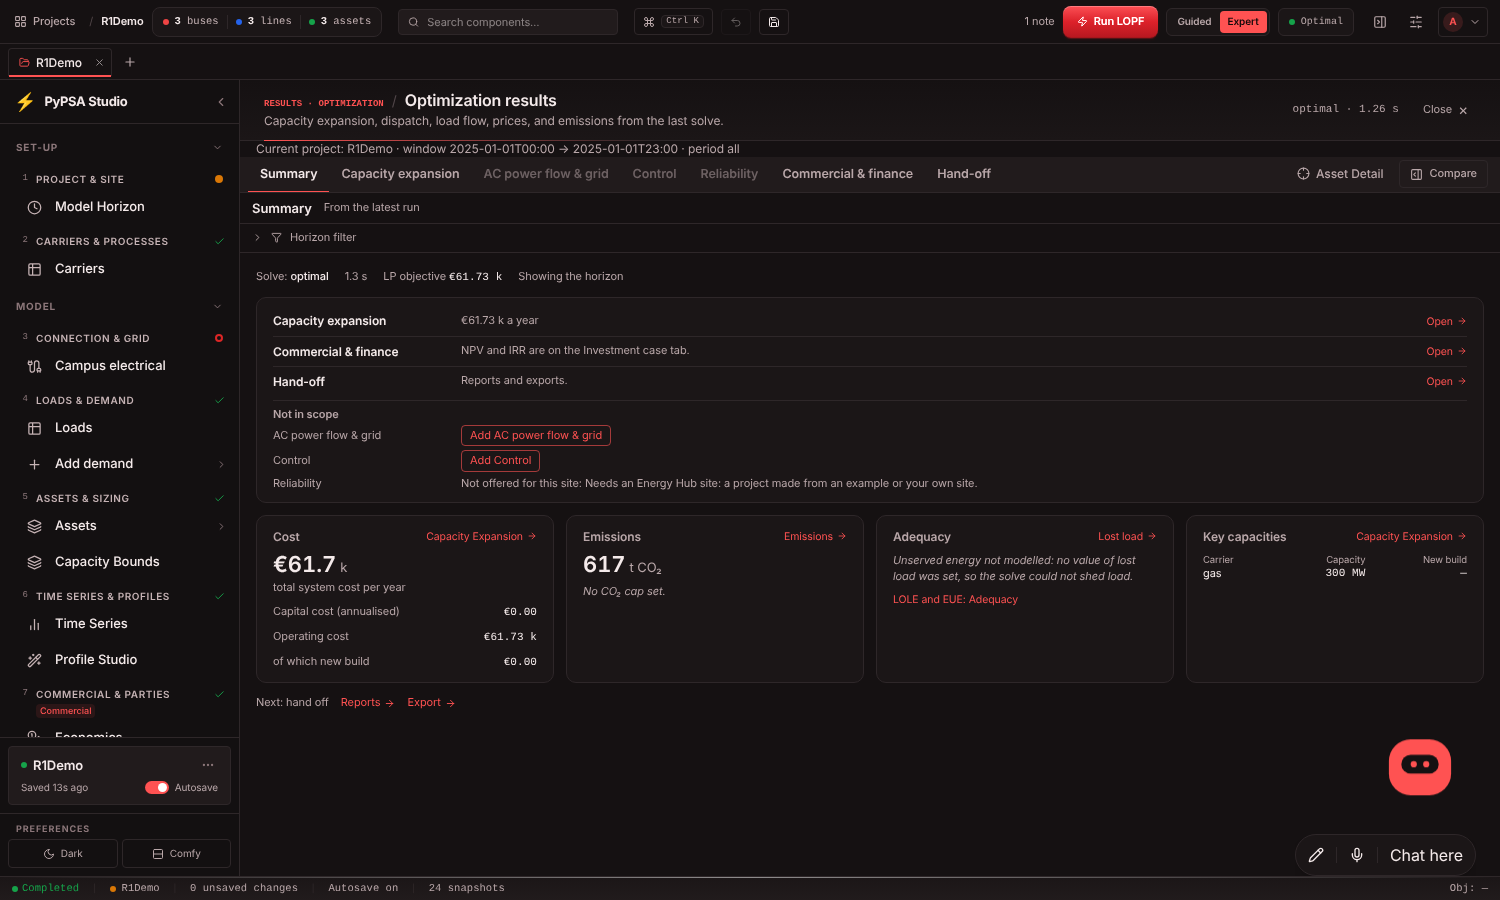
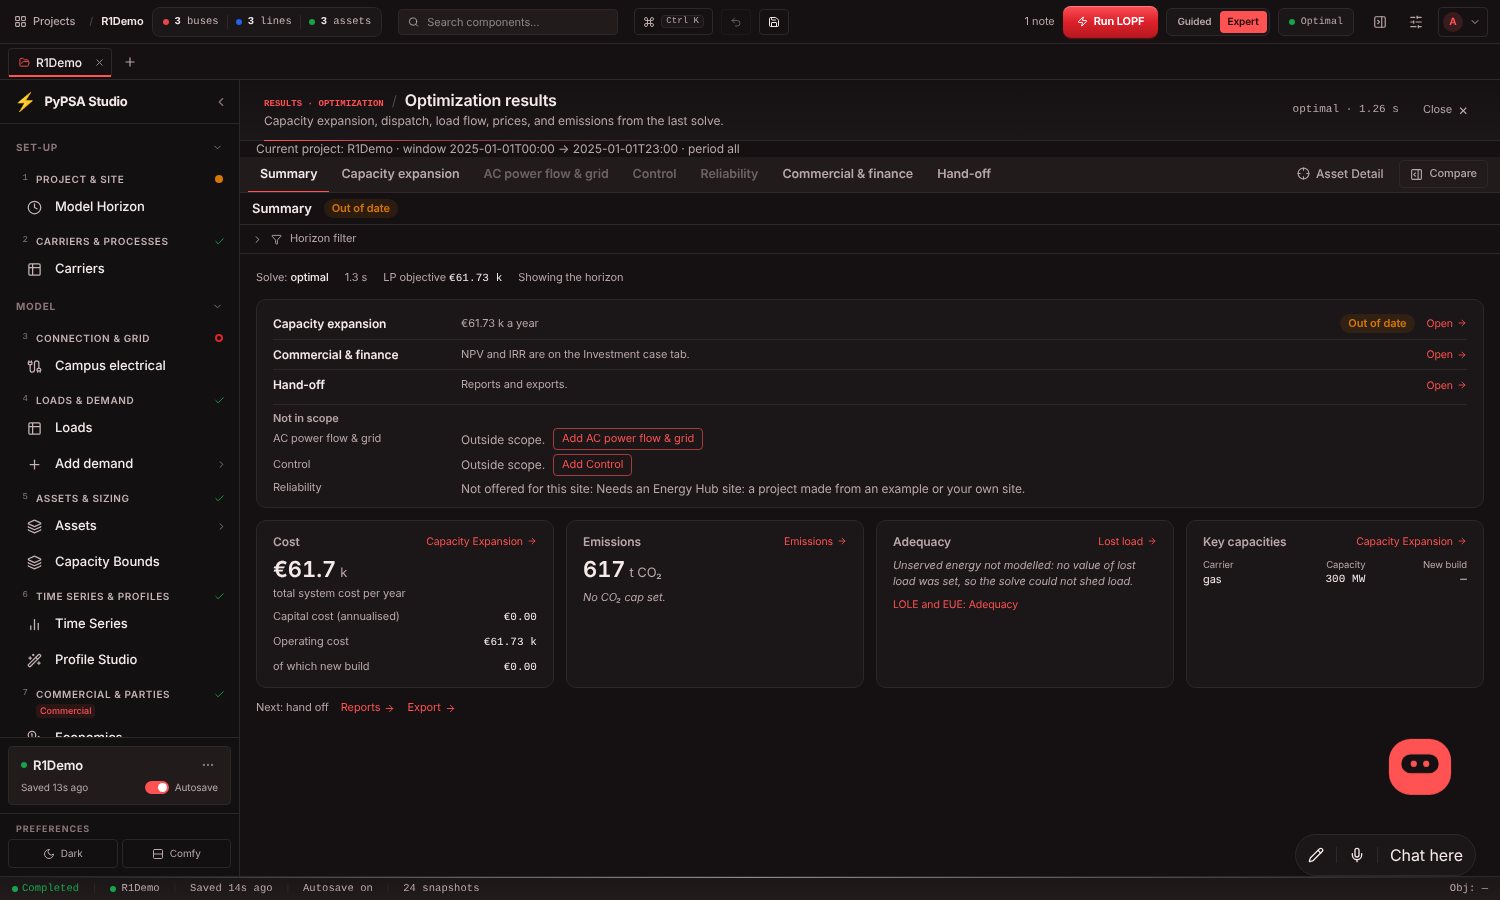
Results groups: failure target, empty-note links, ScopeGate in Summary rows
Claude-Session: https://claude.ai/code/session_01WsvjbS4viKhBmiZq7EK6JD

diff --git a/pypsa-gui/frontend/src/pages/Results.tsx b/pypsa-gui/frontend/src/pages/Results.tsx
@@ -182,6 +182,7 @@ export default function Results() {
   const setCompareRailOpen  = useUIStore(s => s.setCompareRailOpen)
   const setCompareRailWidth = useUIStore(s => s.setCompareRailWidth)
   const resultsTabRequest = useUIStore(s => s.resultsTabRequest)
+  const setSlidePanel = useUIStore(s => s.setSlidePanel)
   const clearResultsTabRequest = useUIStore(s => s.clearResultsTabRequest)
   const discussedRun = useUIStore(s => s.discussedRun)
   const clearDiscussedRun = useUIStore(s => s.clearDiscussedRun)
@@ -946,13 +947,20 @@ export default function Results() {
                       <div className="p-4"><ScopeGate card={g as ScopeCardId} testId="results-outside-scope">{null}</ScopeGate></div>
                     ) : (
                       <p data-testid="results-gempty" className="p-4 text-[12px] text-muted">
-                        No {label} results here yet.
+                        {g === 'control'
+                          ? 'Control results come from the island study. '
+                          : 'Reports and exports are made from Reports. '}
+                        <button type="button" data-testid="results-gempty-open"
+                          onClick={() => setSlidePanel(g === 'control' ? 'campusElectrical' : 'reports')}
+                          className="text-accent hover:underline">
+                          {g === 'control' ? 'Run the island study in Campus electrical' : 'Open Reports'} &gt;
+                        </button>
                       </p>
                     )}
                     {outside && emptyGroup == null && hasEarlierResults && (
                       <div data-testid="results-earlier" className="border-t border-border">
                         <p className="px-4 py-2 text-[11px] text-muted">
-                          From the latest run, before {label} was switched off. Read-only.
+                          From the latest run. Read-only while {label} is outside the scope.
                         </p>
                         <div inert className="opacity-50 pointer-events-none select-none">
                           {renderBody(t)}

diff --git a/pypsa-gui/frontend/src/pages/Results.cardGroups.test.tsx b/pypsa-gui/frontend/src/pages/Results.cardGroups.test.tsx
@@ -105,7 +105,7 @@ describe('the group strip', () => {
     fireEvent.click(screen.getByTestId('results-group-grid'))
     expect(screen.getByTestId('results-outside-scope')).toBeTruthy()
     const earlier = screen.getByTestId('results-earlier')
-    expect(earlier.textContent).toContain('before AC power flow & grid was switched off')
+    expect(earlier.textContent).toContain('Read-only while AC power flow & grid is outside the scope')
     const body = within(earlier).getByTestId('loadflow-stub').closest('[inert]')
     expect(body).toBeTruthy()
     expect(body!.className).toContain('opacity-50')
@@ -115,7 +115,10 @@ describe('the group strip', () => {
     getFlowScope.mockResolvedValue(registry(['capacity', 'control', 'reliability']))
     await renderResults()
     fireEvent.click(screen.getByTestId('results-group-control'))
-    expect(screen.getByTestId('results-gempty')).toBeTruthy()
+    expect(screen.getByTestId('results-gempty').textContent).toContain('Campus electrical >')
+    fireEvent.click(screen.getByTestId('results-gempty-open'))
+    expect(useUIStore.getState().activeSlidePanel).toBe('campusElectrical')
+    fireEvent.click(screen.getByTestId('results-group-control'))
     fireEvent.click(screen.getByTestId('results-group-capacity'))
     const tabs = Array.from(document.querySelectorAll('[data-testid^="results-cardtab-"]'))
       .map(el => el.textContent)
@@ -144,6 +147,8 @@ describe('the group header', () => {
     fireEvent.click(screen.getByTestId('results-group-capacity'))
     expect(screen.getByTestId('results-ghead-failed').textContent)
       .toContain('Did not complete: The model is infeasible. Check the demand.')
+    fireEvent.click(screen.getByTestId('results-ghead-failed-open'))
+    expect(useUIStore.getState().activeSection).toBe('scenarios')
   })
 })
 

diff --git a/pypsa-gui/frontend/src/pages/results/GroupHeader.tsx b/pypsa-gui/frontend/src/pages/results/GroupHeader.tsx
@@ -5,6 +5,8 @@
 import type { ReactNode } from 'react'
 import { StatePill, type NonValueState } from '../../components/ResultState'
 import type { SimulationStatus } from '../../api/types'
+import { useUIStore } from '../../store/uiStore'
+import { openSectionInExpert, openSectionInGuided } from '../../layout/flowNavigation'
 import type { CardGroup } from './groups'
 
 /** The group's freshness: from the solve's dispatch freshness (the rail's
@@ -29,6 +31,7 @@ export default function GroupHeader({ group, status, outsideScope, children }: {
   children?: ReactNode
 }) {
   const fresh = freshnessOf(status)
+  const uiMode = useUIStore(st => st.uiMode)
   const failed = !!status && !status.running && !!status.failure
   return (
     <div data-testid="results-ghead" data-group={group.id}
@@ -43,6 +46,10 @@ export default function GroupHeader({ group, status, outsideScope, children }: {
       {failed && !outsideScope && (
         <span data-testid="results-ghead-failed" className="text-[11px] text-danger">
           Did not complete: {status!.failure!.title}{status!.failure!.hint ? `. ${status!.failure!.hint}` : ''}
+          {' '}
+          <button type="button" data-testid="results-ghead-failed-open"
+            onClick={() => (uiMode === 'guided' ? openSectionInGuided : openSectionInExpert)('scenarios')}
+            className="text-accent hover:underline">Open Scenarios & optimisation &gt;</button>
         </span>
       )}
       <span className="flex-1" />

diff --git a/pypsa-gui/frontend/src/pages/results/SummaryTab.tsx b/pypsa-gui/frontend/src/pages/results/SummaryTab.tsx
@@ -21,7 +21,7 @@ import type { AdequacyReportPayload } from './adequacy'
 import { CARD_GROUPS, type CardGroupId } from './groups'
 import { freshnessOf } from './GroupHeader'
 import { StatePill } from '../../components/ResultState'
-import { AddCardToScope } from '../../components/flowScope/ScopeCards'
+import { ScopeGate } from '../../components/flowScope/ScopeGate'
 import { useFlowScope } from '../../components/flowScope/useFlowScope'
 import { inScope, type ScopeCardId } from '../../api/flow'
 import type { SimulationStatus } from '../../api/types'
@@ -308,7 +308,7 @@ function CardRows({ status, onOpenTab, onOpenGroup, isIn, headline, openReports 
             {outRows.map(g => (
               <li key={g.id} data-testid={`summary-out-${g.id}`} className="flex items-center gap-3 py-0.5">
                 <span className="w-44 shrink-0">{g.label}</span>
-                <AddCardToScope card={g.id as ScopeCardId} testId={`summary-out-add-${g.id}`} />
+                <ScopeGate card={g.id as ScopeCardId} testId={`summary-out-gate-${g.id}`}>{null}</ScopeGate>
               </li>
             ))}
           </ul>
